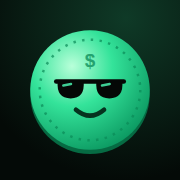
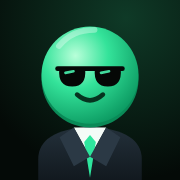
Renombrar a North y nuevo personaje con traje y maletín
Claude-Session: https://claude.ai/code/session_01778MfouyxbgDrk4pFyrYCz

diff --git a/index.html b/index.html
@@ -4,16 +4,16 @@
 <meta charset="utf-8">
 <meta name="viewport" content="width=device-width,initial-scale=1,viewport-fit=cover">
 <meta name="theme-color" content="#06100c">
-<meta name="lana-version" content="1">
+<meta name="north-version" content="1">
 <meta name="apple-mobile-web-app-capable" content="yes">
 <meta name="apple-mobile-web-app-status-bar-style" content="black-translucent">
-<meta name="apple-mobile-web-app-title" content="Lana">
+<meta name="apple-mobile-web-app-title" content="North">
 <link rel="manifest" href="manifest.json">
 <link rel="icon" href="icons/icon-192.png">
 <link rel="apple-touch-icon" href="icons/apple-touch-icon.png">
 <link rel="preconnect" href="https://fonts.googleapis.com"><link rel="preconnect" href="https://fonts.gstatic.com" crossorigin>
 <link rel="stylesheet" href="https://fonts.googleapis.com/css2?family=Outfit:wght@400;500;600;700;800&display=swap">
-<title>Lana — Mis finanzas</title>
+<title>North — Mis finanzas</title>
 <style>
 :root{--bg:#06100c;--bg2:#0a1712;--card:#0f1f18;--card2:#142a20;--line:#1d3529;--ink:#eafff4;--ink2:#b9d4c6;--muted:#7d9a8b;--brand:#2ee59d;--brand2:#12b981;--lime:#c6f432;--gold:#f5c542;--warn:#ffb547;--danger:#ff5d6c;--r:22px;color-scheme:dark}
 *{box-sizing:border-box;-webkit-tap-highlight-color:transparent}
@@ -185,21 +185,31 @@ main{flex:1;min-width:0;max-width:560px;margin:0 auto;padding:calc(env(safe-area
 .coin-svg .cs{transform-box:fill-box;transform-origin:50% 50%;animation:cshadow 3.2s ease-in-out infinite}
 .coin-svg .shine{animation:cshine 4.5s ease-in-out infinite}
 .coin-svg .glass{transform-box:fill-box;transform-origin:50% 50%;animation:cglass 6s ease-in-out infinite}
-.coin-svg .arm{transform-box:fill-box;transform-origin:10% 90%}
-.coin-svg.m-wave .arm.r{animation:cwave .9s ease-in-out infinite}
+.coin-svg .arm{transform-box:fill-box;transform-origin:20% 10%}
+.coin-svg .head{transform-box:fill-box;transform-origin:50% 90%;animation:chead 3.2s ease-in-out infinite}
+.coin-svg .case{transform-box:fill-box;transform-origin:50% 0%;animation:ccase 2.2s ease-in-out infinite}
+.coin-svg .bill{opacity:0}
+.coin-svg.m-celebrate .bill,.coin-svg.m-happy .bill{animation:cbill 1.2s ease-out infinite}
+.coin-svg .b2{animation-delay:.3s!important}.coin-svg .b3{animation-delay:.6s!important}
+.coin-svg.m-wave .arm.l{animation:cwavel .9s ease-in-out infinite}
+@keyframes chead{0%,100%{transform:rotate(-4deg)}50%{transform:rotate(4deg)}}
+@keyframes ccase{0%,100%{transform:rotate(-7deg)}50%{transform:rotate(7deg)}}
+@keyframes cwavel{0%,100%{transform:rotate(0)}50%{transform:rotate(55deg)}}
+@keyframes cbill{0%{opacity:0;transform:translate(0,0) rotate(0)}20%{opacity:1}100%{opacity:0;transform:translate(var(--bx,6px),-38px) rotate(40deg)}}
+.coin-svg .b1{--bx:-10px}.coin-svg .b3{--bx:14px}
 .coin-svg.m-happy .cb{animation:chop .9s cubic-bezier(.3,1.6,.5,1) infinite}
 .coin-svg.m-celebrate .cb{animation:cspin 1.1s cubic-bezier(.3,1.3,.5,1) infinite}
 .coin-svg.m-think .cb{animation:ctilt 2.4s ease-in-out infinite}
 .coin-svg.m-sleep .cb{animation:cbreath 4s ease-in-out infinite}
 .coin-svg .z{animation:zz 2.4s ease-in-out infinite;opacity:0}.coin-svg .z2{animation-delay:.8s}.coin-svg .z3{animation-delay:1.6s}
 .coin-svg:active .cb{animation:csquish .35s ease}
-@keyframes cfloat{0%,100%{transform:translateY(0) rotate(-3deg)}50%{transform:translateY(-7px) rotate(3deg)}}
+@keyframes cfloat{0%,100%{transform:translateY(0)}50%{transform:translateY(-6px)}}
 @keyframes cshadow{0%,100%{transform:scaleX(1);opacity:.35}50%{transform:scaleX(.8);opacity:.2}}
 @keyframes cshine{0%,60%{transform:translateX(-80px)}80%,100%{transform:translateX(90px)}}
 @keyframes cglass{0%,90%,100%{transform:translateY(0)}94%{transform:translateY(-3px)}}
 @keyframes cwave{0%,100%{transform:rotate(0)}50%{transform:rotate(-28deg)}}
 @keyframes chop{0%,100%{transform:translateY(0) scale(1)}40%{transform:translateY(-12px) scale(1.03,.97)}}
-@keyframes cspin{0%{transform:translateY(0) scaleX(1)}30%{transform:translateY(-14px) scaleX(-1)}60%{transform:translateY(-14px) scaleX(1)}100%{transform:translateY(0) scaleX(1)}}
+@keyframes cspin{0%,100%{transform:translateY(0) rotate(0)}30%{transform:translateY(-16px) rotate(-6deg)}60%{transform:translateY(-16px) rotate(6deg)}}
 @keyframes ctilt{0%,100%{transform:rotate(-7deg)}50%{transform:rotate(7deg)}}
 @keyframes cbreath{0%,100%{transform:scale(1)}50%{transform:scale(1.03,.97)}}
 @keyframes csquish{50%{transform:scale(1.12,.86)}}
@@ -214,7 +224,7 @@ main{flex:1;min-width:0;max-width:560px;margin:0 auto;padding:calc(env(safe-area
 
 <div class="auth" id="auth"><div class="auth-box">
   <div class="auth-logo" id="authLogo"></div>
-  <h1>Lana</h1>
+  <h1>North</h1>
   <p class="sub" id="authSub"><b>Tu lana, bajo control.</b>Tarjetas, pagos y gastos en un solo lugar, y te aviso antes de cada fecha de pago.</p>
   <div id="loginCard">
     <div class="err" id="loginErr"></div>
@@ -353,28 +363,32 @@ function coinSVG(size=90,mood='idle'){
   if(isSleep()&&mood!=='celebrate')mood='sleep';
   const id='c'+(++_cid),sleep=mood==='sleep';
   const eyes=sleep
-    ?`<path d="M36 52q6 5 12 0M60 52q6 5 12 0" stroke="#08331f" stroke-width="3.2" fill="none" stroke-linecap="round"/>`
-    :`<g class="glass"><path d="M28 45h52" stroke="#050806" stroke-width="3.5" stroke-linecap="round"/><path d="M29 45h20q1 13-10 13t-10-13z" fill="#050806"/><path d="M59 45h20q1 13-10 13t-10-13z" fill="#050806"/><path d="M33 48l6-1M63 48l6-1" stroke="#4dffb8" stroke-width="2" stroke-linecap="round" opacity=".8"/></g>`;
+    ?`<path d="M47 40q5 4 10 0M63 40q5 4 10 0" stroke="#08331f" stroke-width="2.8" fill="none" stroke-linecap="round"/>`
+    :`<g class="glass"><path d="M40 36h40" stroke="#050806" stroke-width="3" stroke-linecap="round"/><path d="M41 36h16q1 11-8 11t-8-11z" fill="#050806"/><path d="M63 36h16q1 11-8 11t-8-11z" fill="#050806"/><path d="M45 39l5-1M67 39l5-1" stroke="#4dffb8" stroke-width="1.8" stroke-linecap="round" opacity=".85"/></g>`;
   const mouth=mood==='happy'||mood==='celebrate'||mood==='wave'
-    ?`<path d="M44 66q10 11 20 0" fill="#06331f" stroke="#06331f" stroke-width="2.4" stroke-linejoin="round"/><path d="M48 70q6 4 12 0" fill="#ff7b8a"/>`
-    :mood==='think'?`<path d="M47 69q7-3 13 1" stroke="#06331f" stroke-width="3" fill="none" stroke-linecap="round"/>`
-    :sleep?`<ellipse cx="54" cy="68" rx="3.5" ry="2.5" fill="#06331f"/>`
-    :`<path d="M45 66q9 8 18 0" stroke="#06331f" stroke-width="3.2" fill="none" stroke-linecap="round"/>`;
-  const zz=sleep?`<text class="z" x="84" y="26" font-size="13" font-weight="800" fill="#b9ffdf">z</text><text class="z z2" x="92" y="16" font-size="16" font-weight="800" fill="#b9ffdf">z</text><text class="z z3" x="100" y="6" font-size="19" font-weight="800" fill="#b9ffdf">Z</text>`:'';
-  return `<svg class="coin-svg m-${mood}" width="${size}" height="${size}" viewBox="0 0 108 116" onclick="coinPoke(this)" role="img" aria-label="Lana, tu moneda">
+    ?`<path d="M52 52q8 9 16 0z" fill="#06331f" stroke="#06331f" stroke-width="2" stroke-linejoin="round"/><path d="M55 55q5 3 10 0" fill="#ff7b8a"/>`
+    :mood==='think'?`<path d="M54 55q6-3 11 1" stroke="#06331f" stroke-width="2.6" fill="none" stroke-linecap="round"/>`
+    :sleep?`<ellipse cx="60" cy="55" rx="3" ry="2.2" fill="#06331f"/>`
+    :`<path d="M52 52q8 7 16 0" stroke="#06331f" stroke-width="2.8" fill="none" stroke-linecap="round"/>`;
+  const zz=sleep?`<text class="z" x="88" y="20" font-size="12" font-weight="800" fill="#b9ffdf">z</text><text class="z z2" x="96" y="11" font-size="15" font-weight="800" fill="#b9ffdf">z</text><text class="z z3" x="104" y="2" font-size="18" font-weight="800" fill="#b9ffdf">Z</text>`:'';
+  const bills=`<g class="bills"><rect class="bill b1" x="92" y="104" width="13" height="7" rx="1.5" fill="#7dffc0" stroke="#0a8a57"/><rect class="bill b2" x="98" y="104" width="13" height="7" rx="1.5" fill="#7dffc0" stroke="#0a8a57"/><rect class="bill b3" x="95" y="104" width="13" height="7" rx="1.5" fill="#7dffc0" stroke="#0a8a57"/></g>`;
+  return `<svg class="coin-svg m-${mood}" width="${size}" height="${size}" viewBox="0 0 120 150" onclick="coinPoke(this)" role="img" aria-label="North, tu asesor de bolsillo">
   <defs><radialGradient id="${id}g" cx="35%" cy="30%" r="75%"><stop offset="0" stop-color="#b8ffd9"/><stop offset=".45" stop-color="#34e39a"/><stop offset="1" stop-color="#0c9a62"/></radialGradient>
-  <linearGradient id="${id}r" x1="0" y1="0" x2="0" y2="1"><stop offset="0" stop-color="#0fb877"/><stop offset="1" stop-color="#066b43"/></linearGradient>
-  <clipPath id="${id}c"><circle cx="54" cy="54" r="40"/></clipPath></defs>
-  <ellipse class="cs" cx="54" cy="110" rx="28" ry="5" fill="#000"/>
+  <linearGradient id="${id}s" x1="0" y1="0" x2="0" y2="1"><stop offset="0" stop-color="#23303a"/><stop offset="1" stop-color="#11181e"/></linearGradient>
+  <linearGradient id="${id}b" x1="0" y1="0" x2="0" y2="1"><stop offset="0" stop-color="#8a5a2b"/><stop offset="1" stop-color="#5a3715"/></linearGradient></defs>
+  <ellipse class="cs" cx="60" cy="145" rx="30" ry="4.5" fill="#000"/>
   <g class="cb">
-    <g class="arm l"><path d="M16 64q-10 4-8 14" stroke="#0c9a62" stroke-width="6" fill="none" stroke-linecap="round"/></g>
-    <g class="arm r"><path d="M92 62q10-6 8-18" stroke="#0c9a62" stroke-width="6" fill="none" stroke-linecap="round"/><circle cx="100" cy="42" r="5" fill="#34e39a"/></g>
-    <circle cx="54" cy="56" r="44" fill="url(#${id}r)"/>
-    <circle cx="54" cy="54" r="44" fill="url(#${id}g)"/>
-    <circle cx="54" cy="54" r="37" fill="none" stroke="#0a8a57" stroke-width="2" stroke-dasharray="2 5" opacity=".7"/>
-    <g clip-path="url(#${id}c)"><rect class="shine" x="30" y="-10" width="14" height="130" fill="#fff" opacity=".28" transform="rotate(20 54 54)"/></g>
-    <text x="54" y="37" text-anchor="middle" font-size="14" font-weight="800" fill="#0a8a57" opacity=".75">$</text>
-    ${eyes}${mouth}
+    <g class="legs"><rect x="47" y="118" width="10" height="20" rx="4" fill="#11181e"/><rect x="63" y="118" width="10" height="20" rx="4" fill="#11181e"/><ellipse cx="51" cy="139" rx="8" ry="4" fill="#050806"/><ellipse cx="69" cy="139" rx="8" ry="4" fill="#050806"/></g>
+    <g class="arm l"><path d="M38 80q-12 10-10 26" stroke="#1b252d" stroke-width="10" fill="none" stroke-linecap="round"/><circle cx="28" cy="107" r="5.5" fill="#34e39a"/></g>
+    <path d="M36 122V86q0-14 24-16q24 2 24 16v36z" fill="url(#${id}s)"/>
+    <path d="M52 71l8 16 8-16z" fill="#f4fbf7"/>
+    <path d="M60 76l-3.5 4 3.5 22 3.5-22z" fill="#2ee59d"/><path d="M57 75h6l-3 4z" fill="#12b981"/>
+    <path d="M52 71l-7 5 7 16 8-5zM68 71l7 5-7 16-8-5z" fill="#2b3945"/>
+    <circle cx="60" cy="104" r="1.6" fill="#0b1014"/><circle cx="60" cy="112" r="1.6" fill="#0b1014"/>
+    <path d="M73 86h6" stroke="#2ee59d" stroke-width="2.4" stroke-linecap="round"/>
+    <g class="arm r"><path d="M82 80q10 10 10 22" stroke="#1b252d" stroke-width="10" fill="none" stroke-linecap="round"/><circle cx="92" cy="103" r="5.5" fill="#34e39a"/>
+      <g class="case">${bills}<path d="M87 105q0-5 5-5t5 5" stroke="#3b240d" stroke-width="2.6" fill="none"/><rect x="78" y="105" width="28" height="21" rx="4" fill="url(#${id}b)"/><rect x="78" y="112" width="28" height="2.4" fill="#3b240d" opacity=".6"/><rect x="89" y="110" width="6" height="6" rx="1.2" fill="#f5c542"/><text x="92" y="124" text-anchor="middle" font-size="7" font-weight="900" fill="#f5c542">$</text></g></g>
+    <g class="head"><circle cx="60" cy="42" r="30" fill="#0a8a57"/><circle cx="60" cy="40" r="30" fill="url(#${id}g)"/><path d="M40 22q8-10 22-10" stroke="#fff" stroke-width="4" fill="none" stroke-linecap="round" opacity=".35"/>${eyes}${mouth}</g>
   </g>${zz}</svg>`;
 }
 function coinPoke(el){sfx('coin');buzz(12);el.classList.remove('m-idle');el.classList.add('m-happy');setTimeout(()=>{el.classList.remove('m-happy')},1300)}
@@ -474,7 +488,7 @@ const VIEWS=[['home','Inicio','home'],['accounts','Tarjetas','card'],['moves','M
 function buildNav(){
   const n=$('nav');
   n.innerHTML=VIEWS.slice(0,2).map(v=>navBtn(v)).join('')+`<button class="fab" data-nosfx onclick="sfx('open');openQuick()" aria-label="Agregar">${ic('plus',26,2.4)}</button>`+VIEWS.slice(2).map(v=>navBtn(v)).join('');
-  $('side').innerHTML=`<div class="brandrow">${logoSVG(38)} Lana</div>`+VIEWS.concat([['settings','Ajustes','settings']]).map(v=>`<button class="nv ${view===v[0]?'on':''}" onclick="go('${v[0]}')">${ic(v[2],20)} ${v[1]}</button>`).join('')+`<button class="btn" onclick="sfx('open');openQuick()">${ic('plus',18,2.4)} Agregar</button>`;
+  $('side').innerHTML=`<div class="brandrow">${logoSVG(38)} North</div>`+VIEWS.concat([['settings','Ajustes','settings']]).map(v=>`<button class="nv ${view===v[0]?'on':''}" onclick="go('${v[0]}')">${ic(v[2],20)} ${v[1]}</button>`).join('')+`<button class="btn" onclick="sfx('open');openQuick()">${ic('plus',18,2.4)} Agregar</button>`;
 }
 function navBtn(v){return `<button class="${view===v[0]?'on':''}" onclick="go('${v[0]}')">${ic(v[2],22)}<span>${v[1]}</span></button>`}
 function go(v){if(v!==view)sfx('nav');buzz(6);view=v;buildNav();render();window.scrollTo({top:0,behavior:'smooth'})}
@@ -838,7 +852,7 @@ function statsView(){
     <div class="stat"><b>${T.util!=null?Math.round(T.util*100)+'%':'—'}</b><span>Uso de crédito</span></div>
     <div class="stat"><b>${income?Math.round(T.monthly/income*100)+'%':'—'}</b><span>Ingreso a deudas</span></div></div></section>
   ${debts.length?`<section class="card"><div style="font-weight:700;margin-bottom:6px">¿A quién le debes más?</div>${debts.map((a,k)=>`<div class="cat-row"><div class="nm">${ic(a.kind==='card'?'card':'loan',15)} ${esc(a.name)}</div><div class="tr"><i style="width:${a.balance/dmax*100}%;animation-delay:${k*.06}s"></i></div><div class="v">${M(a.balance)}</div></div>`).join('')}</section>`:''}
-  <div class="sec">Consejos de Lana</div>
+  <div class="sec">Consejos de North</div>
   <section class="card"><div style="display:flex;justify-content:center;margin-bottom:4px">${coinSVG(80,'think')}</div>${tips.map(([i,c,t])=>`<div class="tip ${c}">${ic(i,18)}<div>${esc(t)}</div></div>`).join('')}</section>`;
   return topBar('Métricas')+`<div class="grid2"><div>${left}</div><div>${right}</div></div>`;
 }
@@ -846,7 +860,7 @@ function statsView(){
 /* ====================== Ajustes ====================== */
 function settingsView(){
   const st=pushState();
-  const pushTxt={on:'Activadas en este dispositivo',off:'Toca para activarlas',install:'Primero instala Lana en tu pantalla de inicio',denied:'Bloqueadas en los ajustes del teléfono',unsupported:'Este navegador no las permite'}[st];
+  const pushTxt={on:'Activadas en este dispositivo',off:'Toca para activarlas',install:'Primero instala North en tu pantalla de inicio',denied:'Bloqueadas en los ajustes del teléfono',unsupported:'Este navegador no las permite'}[st];
   return topBar('Ajustes')+`
   <section class="card" style="display:flex;align-items:center;gap:14px">${coinSVG(70,'happy')}<div><div style="font-weight:700;font-size:18px">${esc(user?.user_metadata?.name||userName())}</div><div class="muted small">${esc(user?.email||'')}</div></div></section>
   <section class="card list">
@@ -857,7 +871,7 @@ function settingsView(){
     <div class="li" onclick="openName()"><div class="ico">${ic('user',19)}</div><div class="mid"><div class="t">Mi nombre</div></div>${ic('chevron',18)}</div>
     <div class="li" onclick="if(confirm('¿Cerrar sesión?'))logout()" style="color:var(--danger)"><div class="ico" style="color:var(--danger)">${ic('logout',19)}</div><div class="mid"><div class="t">Cerrar sesión</div></div></div>
   </section>
-  <div class="muted small" style="text-align:center;line-height:1.5;margin:10px 20px">Lana no se conecta a tu banco: tú anotas los datos. Tu información es privada y solo tú la ves con tu cuenta.<br>Lana es una herramienta de organización, no asesoría financiera.</div>`;
+  <div class="muted small" style="text-align:center;line-height:1.5;margin:10px 20px">North no se conecta a tu banco: tú anotas los datos. Tu información es privada y solo tú la ves con tu cuenta.<br>North es una herramienta de organización, no asesoría financiera.</div>`;
 }
 function openIncome(){
   openSheet(head('Ingreso mensual','Lo que te entra al mes, más o menos. Sirve para tus métricas.')+`<div class="field"><input id="incAmt" class="amount-in" inputmode="decimal" value="${settings.monthly_income||''}" placeholder="$0"></div><button class="btn" onclick="saveIncome(this)">${ic('check',18)} Guardar</button>`);
@@ -878,7 +892,7 @@ function pushState(){
 }
 function openNotifPrompt(afterId){
   const st=pushState();
-  const body={install:'En iPhone: abre Lana en Safari, toca Compartir y luego "Agregar a pantalla de inicio". Abre Lana desde ese ícono y activa los avisos en Ajustes.',unsupported:'Abre Lana desde el ícono instalado en tu teléfono para recibir avisos.',denied:'Las notificaciones están bloqueadas. Actívalas en Ajustes del teléfono › Notificaciones › Lana.',on:'Ya están activadas en este dispositivo.'}[st];
+  const body={install:'En iPhone: abre North en Safari, toca Compartir y luego "Agregar a pantalla de inicio". Abre North desde ese ícono y activa los avisos en Ajustes.',unsupported:'Abre North desde el ícono instalado en tu teléfono para recibir avisos.',denied:'Las notificaciones están bloqueadas. Actívalas en Ajustes del teléfono › Notificaciones › North.',on:'Ya están activadas en este dispositivo.'}[st];
   openSheet(head('¿Te aviso antes de pagar?')+`<div style="display:flex;justify-content:center">${coinSVG(120,'wave')}</div><p style="text-align:center;color:var(--ink2);line-height:1.5">Te mando una notificación 3 días antes, 1 día antes y el día de tu fecha límite, y en tu fecha de corte. Así nunca pagas intereses por olvido.</p>
   ${body?`<div class="tip">${ic('bulb',18)}<div>${body}</div></div>`:`<button class="btn" onclick="enablePush(this,'${afterId||''}')">${ic('bell',18)} Sí, avísame</button>`}
   <button class="btn alt" onclick="${afterId?`openDetail('${afterId}')`:'closeSheet()'}">Ahora no</button>`);

diff --git a/sw.js b/sw.js
@@ -1,6 +1,6 @@
-// Service worker de Lana: la página siempre se pide a la red primero (para no quedarse con versiones viejas)
+// Service worker de North: la página siempre se pide a la red primero (para no quedarse con versiones viejas)
 // y los íconos se guardan en caché. También recibe los avisos de pago.
-const CACHE = 'lana-static-v1';
+const CACHE = 'north-static-v2';
 const ASSETS = ['./manifest.json', './icons/icon-192.png', './icons/icon-512.png'];
 self.addEventListener('install', (e) => { e.waitUntil(caches.open(CACHE).then((c) => c.addAll(ASSETS)).catch(() => {})); self.skipWaiting(); });
 self.addEventListener('activate', (e) => { e.waitUntil(caches.keys().then((ks) => Promise.all(ks.filter((k) => k !== CACHE).map((k) => caches.delete(k))))); self.clients.claim(); });
@@ -11,8 +11,8 @@ self.addEventListener('fetch', (e) => {
   e.respondWith(caches.match(e.request).then((hit) => hit || fetch(e.request).then((r) => { if (r.ok) { const cp = r.clone(); caches.open(CACHE).then((c) => c.put(e.request, cp)); } return r; })));
 });
 self.addEventListener('push', (e) => {
-  let d = {}; try { d = e.data ? e.data.json() : {}; } catch (_) { d = { title: 'Lana', body: e.data && e.data.text() }; }
-  e.waitUntil(self.registration.showNotification(d.title || 'Lana', { body: d.body || '', tag: d.tag, icon: 'icons/icon-192.png', badge: 'icons/icon-192.png', data: { url: d.url || '/' }, vibrate: [120, 60, 120] }));
+  let d = {}; try { d = e.data ? e.data.json() : {}; } catch (_) { d = { title: "North", body: e.data && e.data.text() }; }
+  e.waitUntil(self.registration.showNotification(d.title || "North", { body: d.body || '', tag: d.tag, icon: 'icons/icon-192.png', badge: 'icons/icon-192.png', data: { url: d.url || '/' }, vibrate: [120, 60, 120] }));
 });
 self.addEventListener('notificationclick', (e) => {
   e.notification.close();

diff --git a/README.md b/README.md
@@ -1,4 +1,4 @@
-# Lana — Mis finanzas
+# North — Mis finanzas
 
 App web instalable (PWA) para llevar tarjetas de crédito, préstamos, pagos fijos, gastos e ingresos, con métricas y avisos antes de cada fecha de pago. No se conecta al banco: todo se captura a mano.
 
